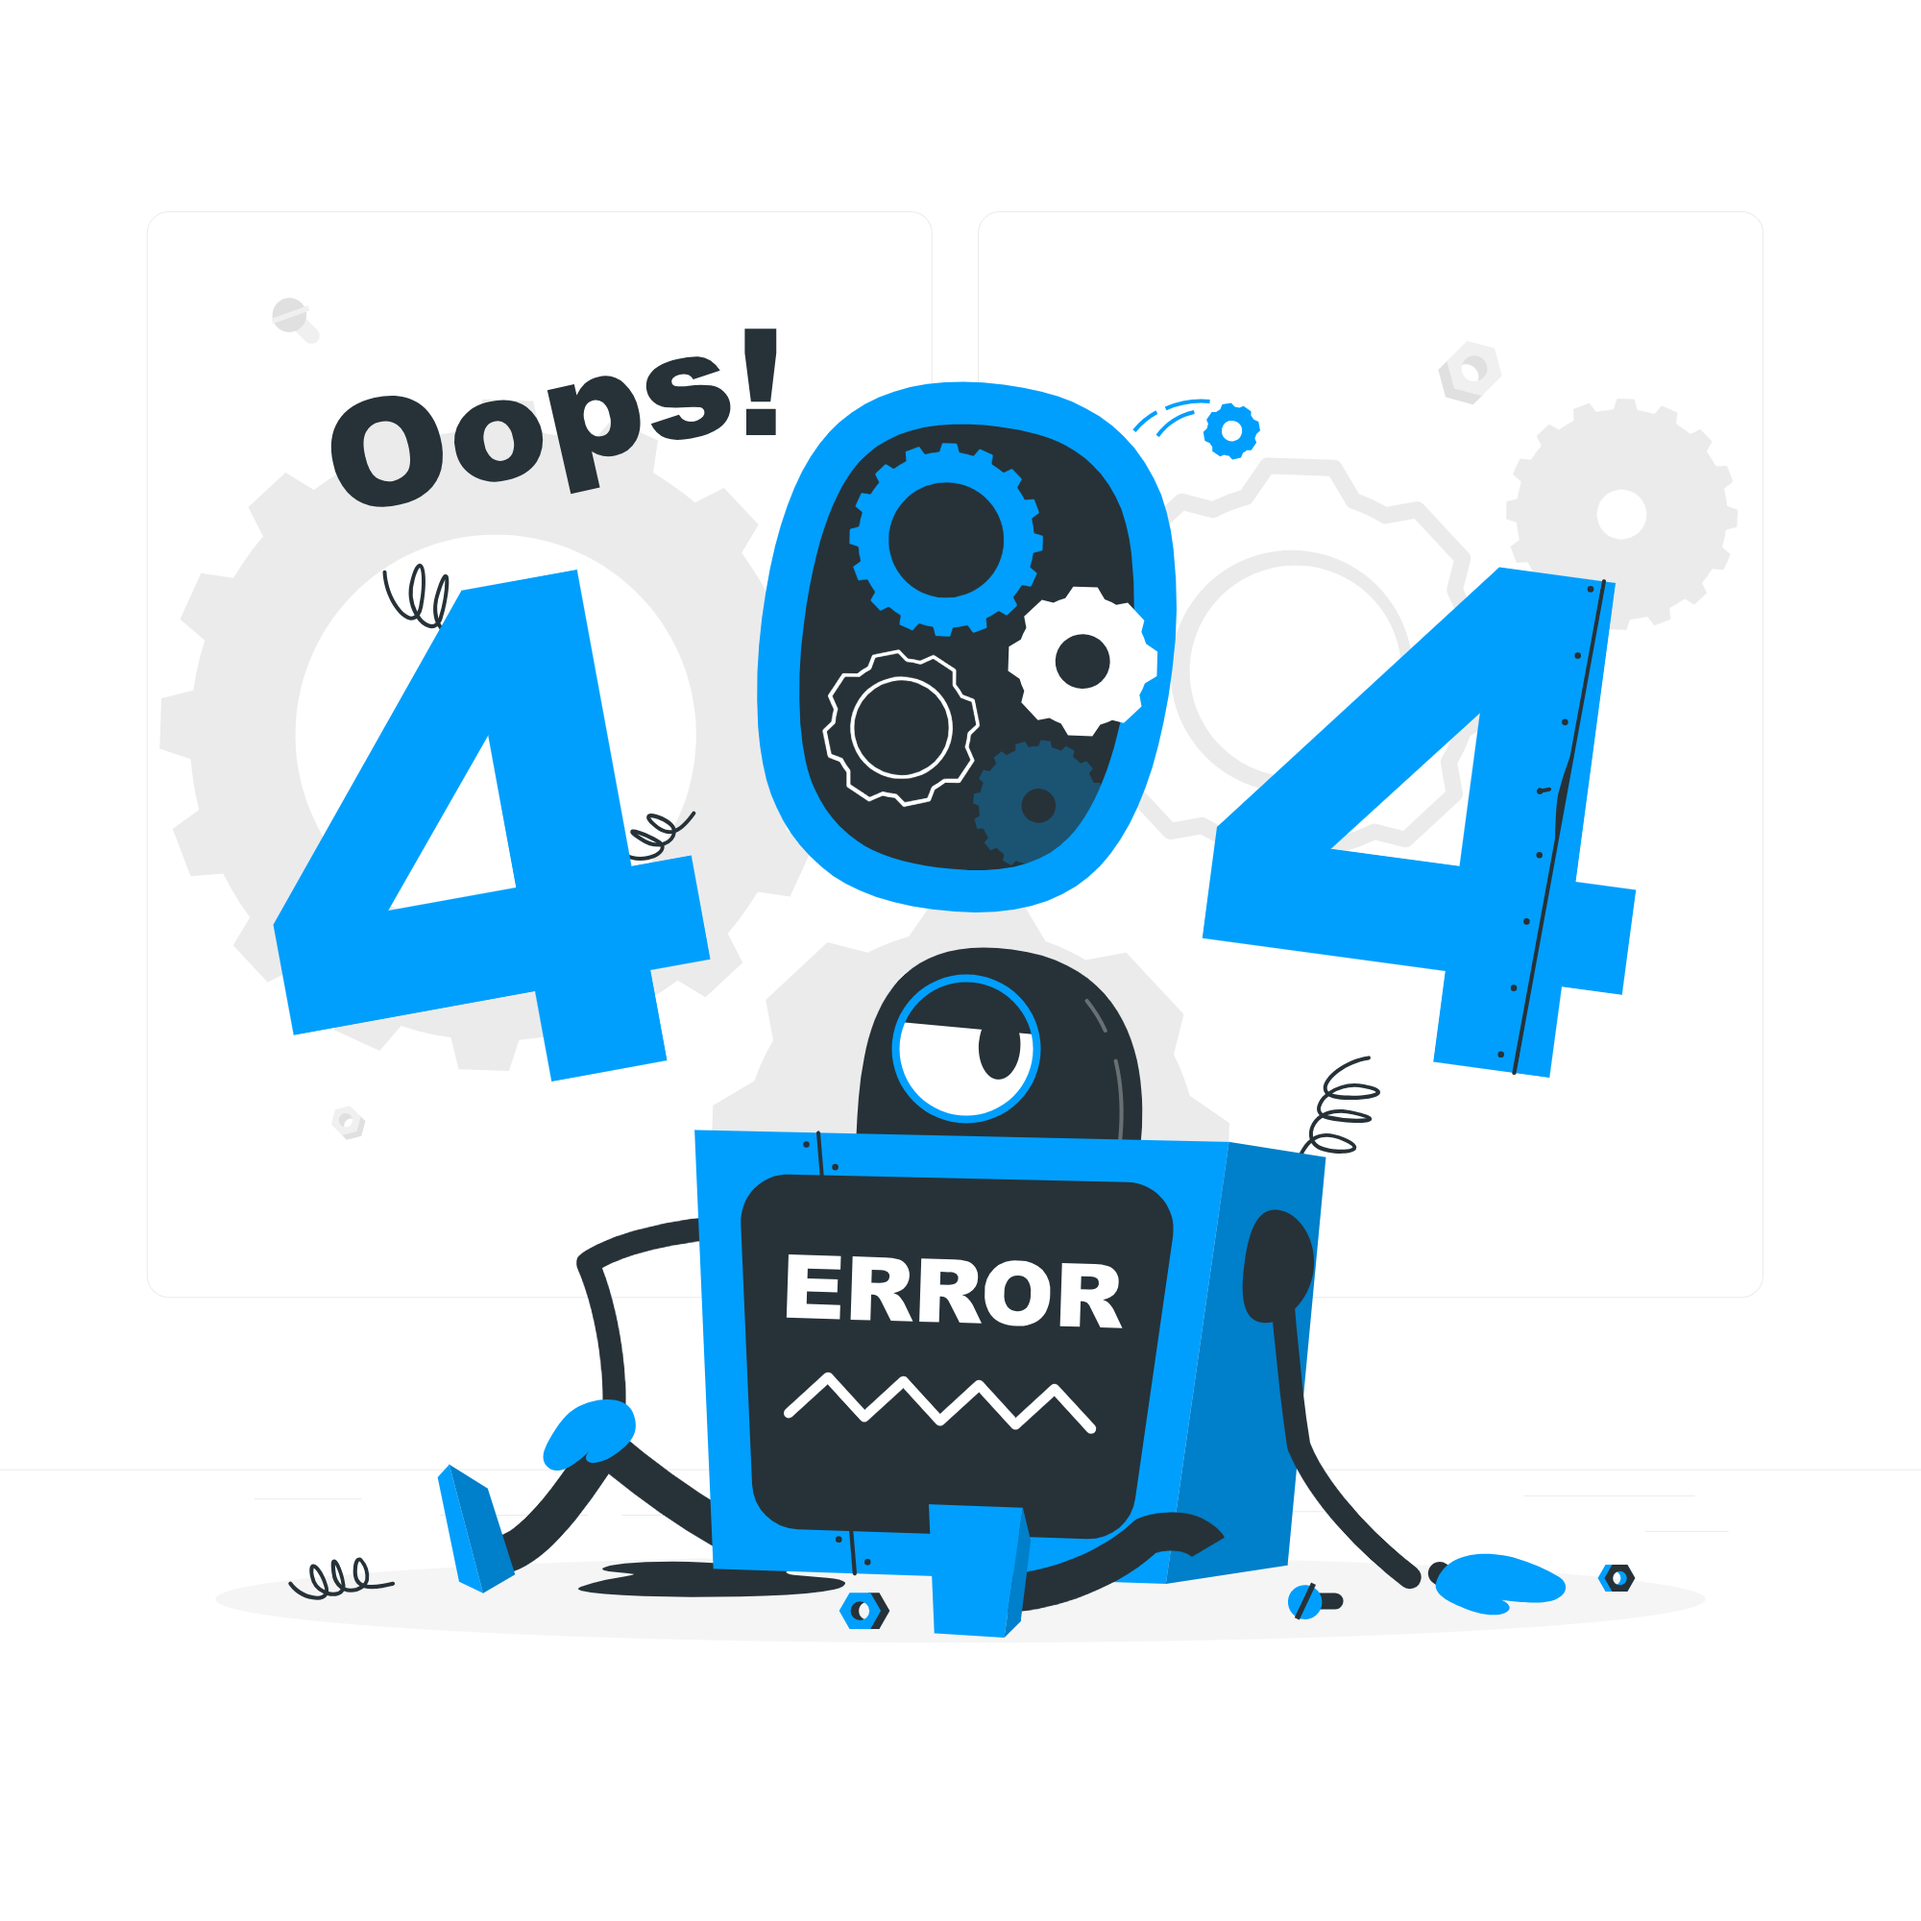
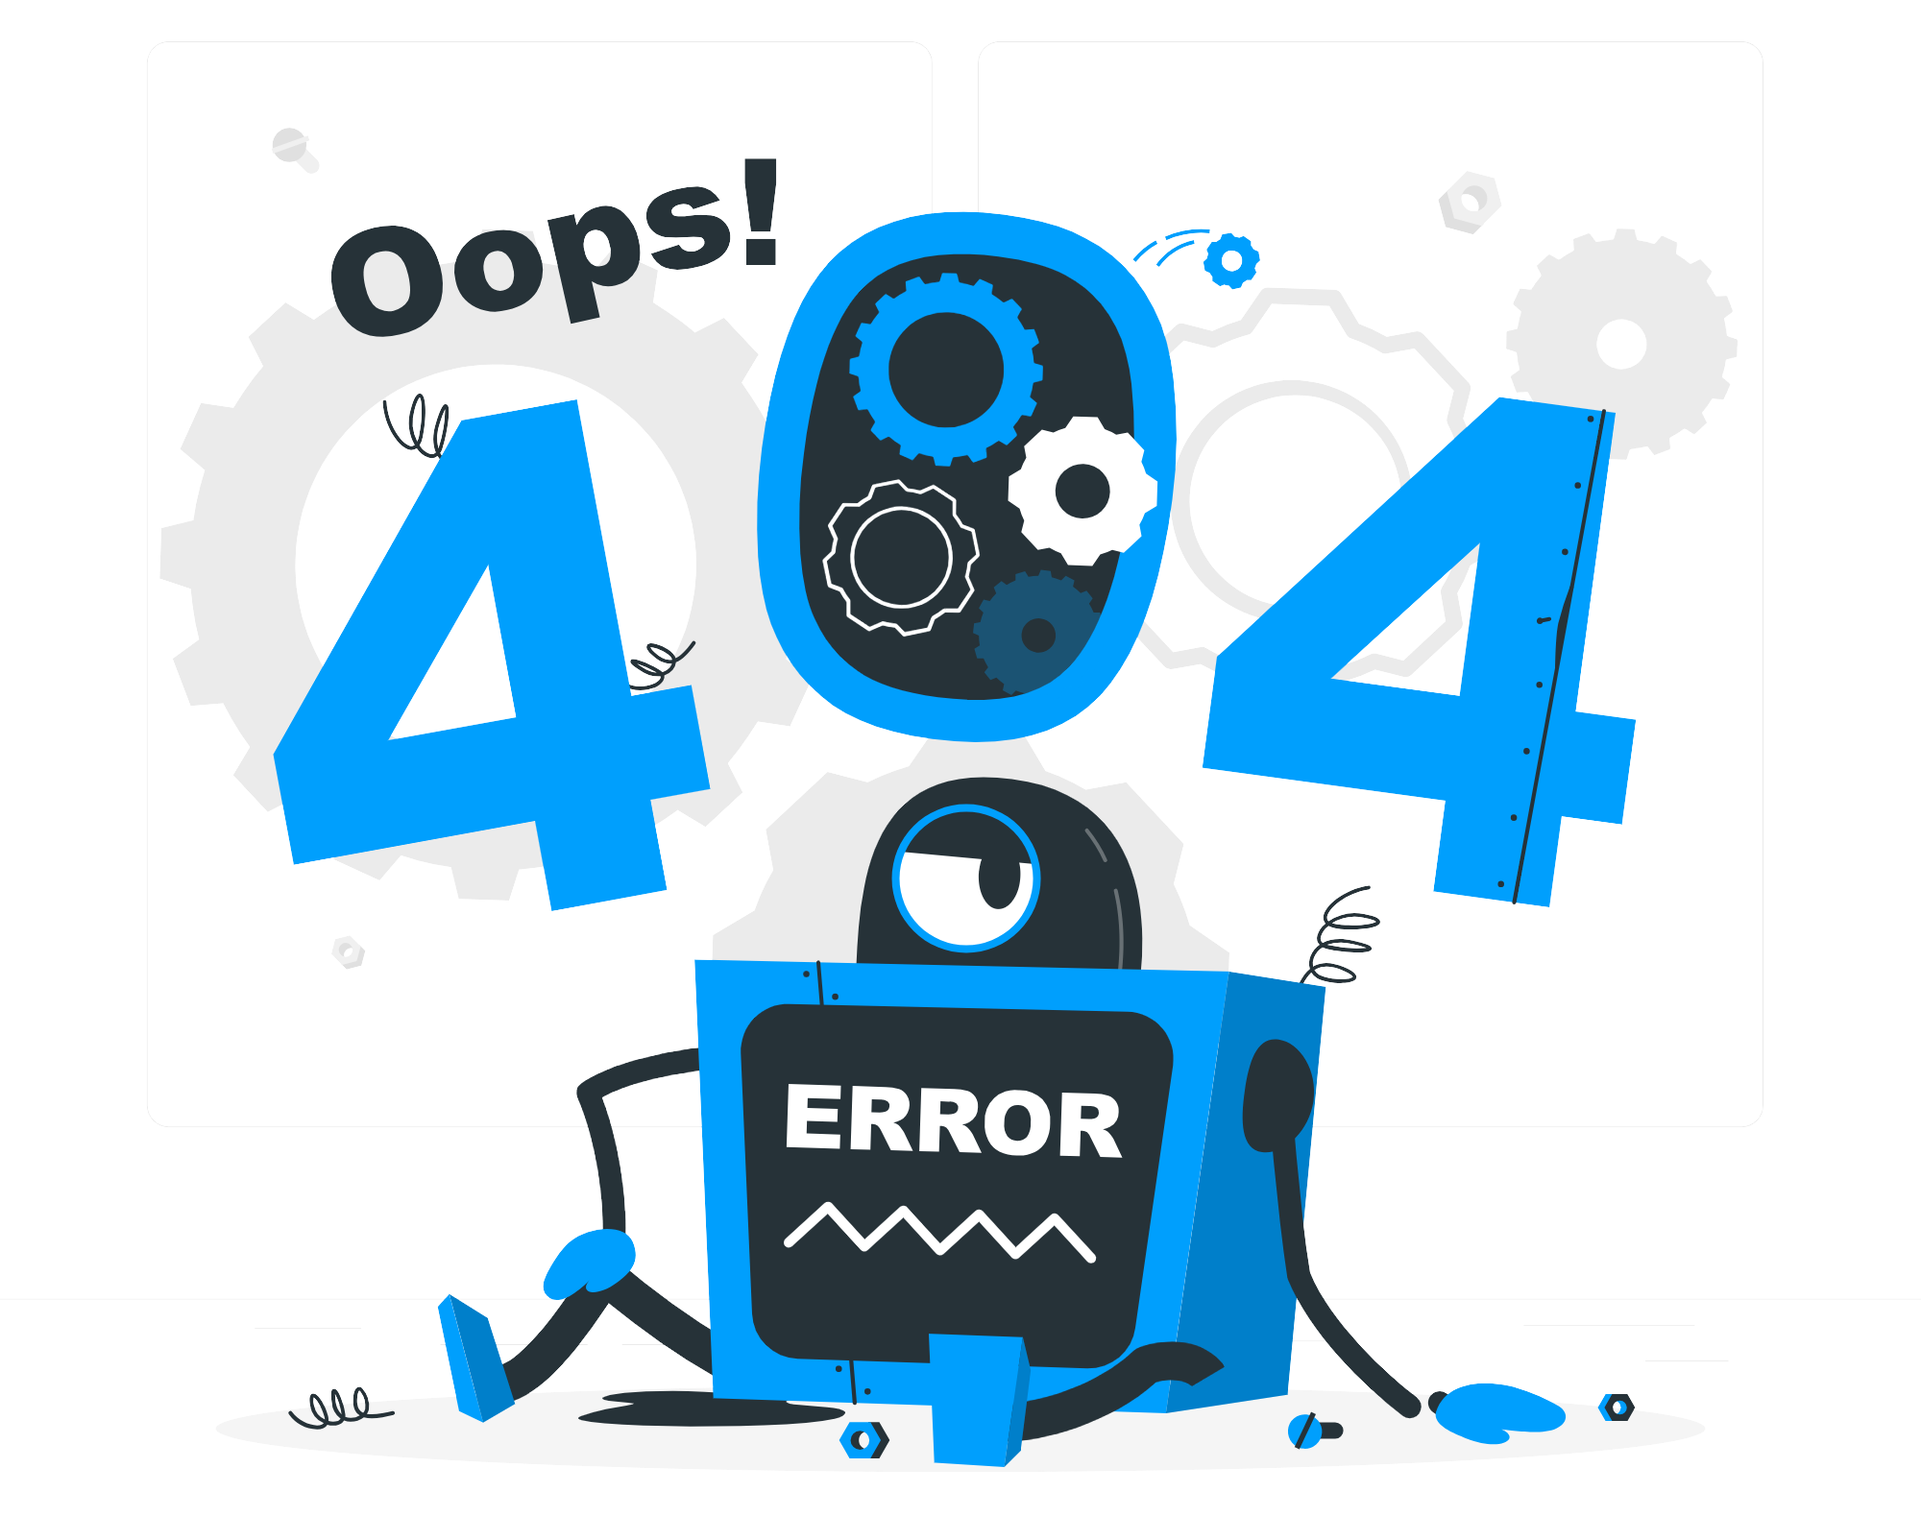
Add - added UI for ErrorPage

diff --git a/src/pages/SignupPageComponent/SignupPageComponent.jsx b/src/pages/SignupPageComponent/SignupPageComponent.jsx
@@ -28,8 +28,8 @@ const SignupPageComponent = () => {
 
   return (
     <React.Fragment>
-      <div className='w-full flex justify-center items-center h-[80vh] '>
-        <div className='w-full px-5 max-w-[500px] flex flex-col justify-center items-center gap-5'>
+      <div className='w-full flex justify-center h-[90vh] '>
+        <div className='w-full px-5 max-w-[500px] flex flex-col items-center gap-5'>
           <h1 className='text-betatypeDarkBlue text-6xl font-bold py-10'>Sign up</h1>
           <div className='w-full flex flex-col items-center gap-4'>
             <button className='flex items-center justify-center rounded-lg py-2 gap-2 border-2 w-full border-betatypePrimaryBlue shadow-buttonBlue hover:shadow-buttonBlue_hover hover:transform hover:-translate-y-1 transition'>

diff --git a/src/pages/LoginPageComponent/LoginPageComponent.jsx b/src/pages/LoginPageComponent/LoginPageComponent.jsx
@@ -27,8 +27,8 @@ const LoginPageComponent = () => {
 
   return (
     <React.Fragment>
-      <div className='w-full flex justify-center items-center h-[80vh] '>
-        <div className='w-full px-5 max-w-[500px] flex flex-col justify-center items-center gap-5'>
+      <div className='w-full flex justify-center h-[90vh] '>
+        <div className='w-full px-5 max-w-[500px] flex flex-col items-center gap-5'>
           <h1 className='text-betatypeDarkBlue text-6xl font-bold py-10'>Log in</h1>
           <div className='w-full flex flex-col items-center gap-4'>
             <button className='flex items-center justify-center rounded-lg py-2 gap-2 border-2 w-full border-betatypePrimaryBlue shadow-buttonBlue hover:shadow-buttonBlue_hover hover:transform hover:-translate-y-1 transition'>

diff --git a/src/pages/ErrorPageComponent/ErrorPageComponent.jsx b/src/pages/ErrorPageComponent/ErrorPageComponent.jsx
@@ -1,9 +1,15 @@
 import React from 'react'
+import errorImage from "../../assets/error.png"
+import { Link } from 'react-router-dom'
 
 const ErrorPageComponent = () => {
   return (
     <React.Fragment>
-      ErrorPageComponent
+      <div className='error-image-container md:h-[70vh] flex justify-center'>
+        <img className='h-full' src={errorImage} alt='Error-page not found'/>
+      </div>
+      <h3 className='text-2xl md:text-4xl font-mono text-center py-3'>Page not found...</h3>
+      <p className='text-center text-lg md:text-xl py-3'>Return back to <Link to={"/"} className='underline text-blue-500 hover:text-blue-400' >Home</Link></p>
     </React.Fragment>
   )
 }
